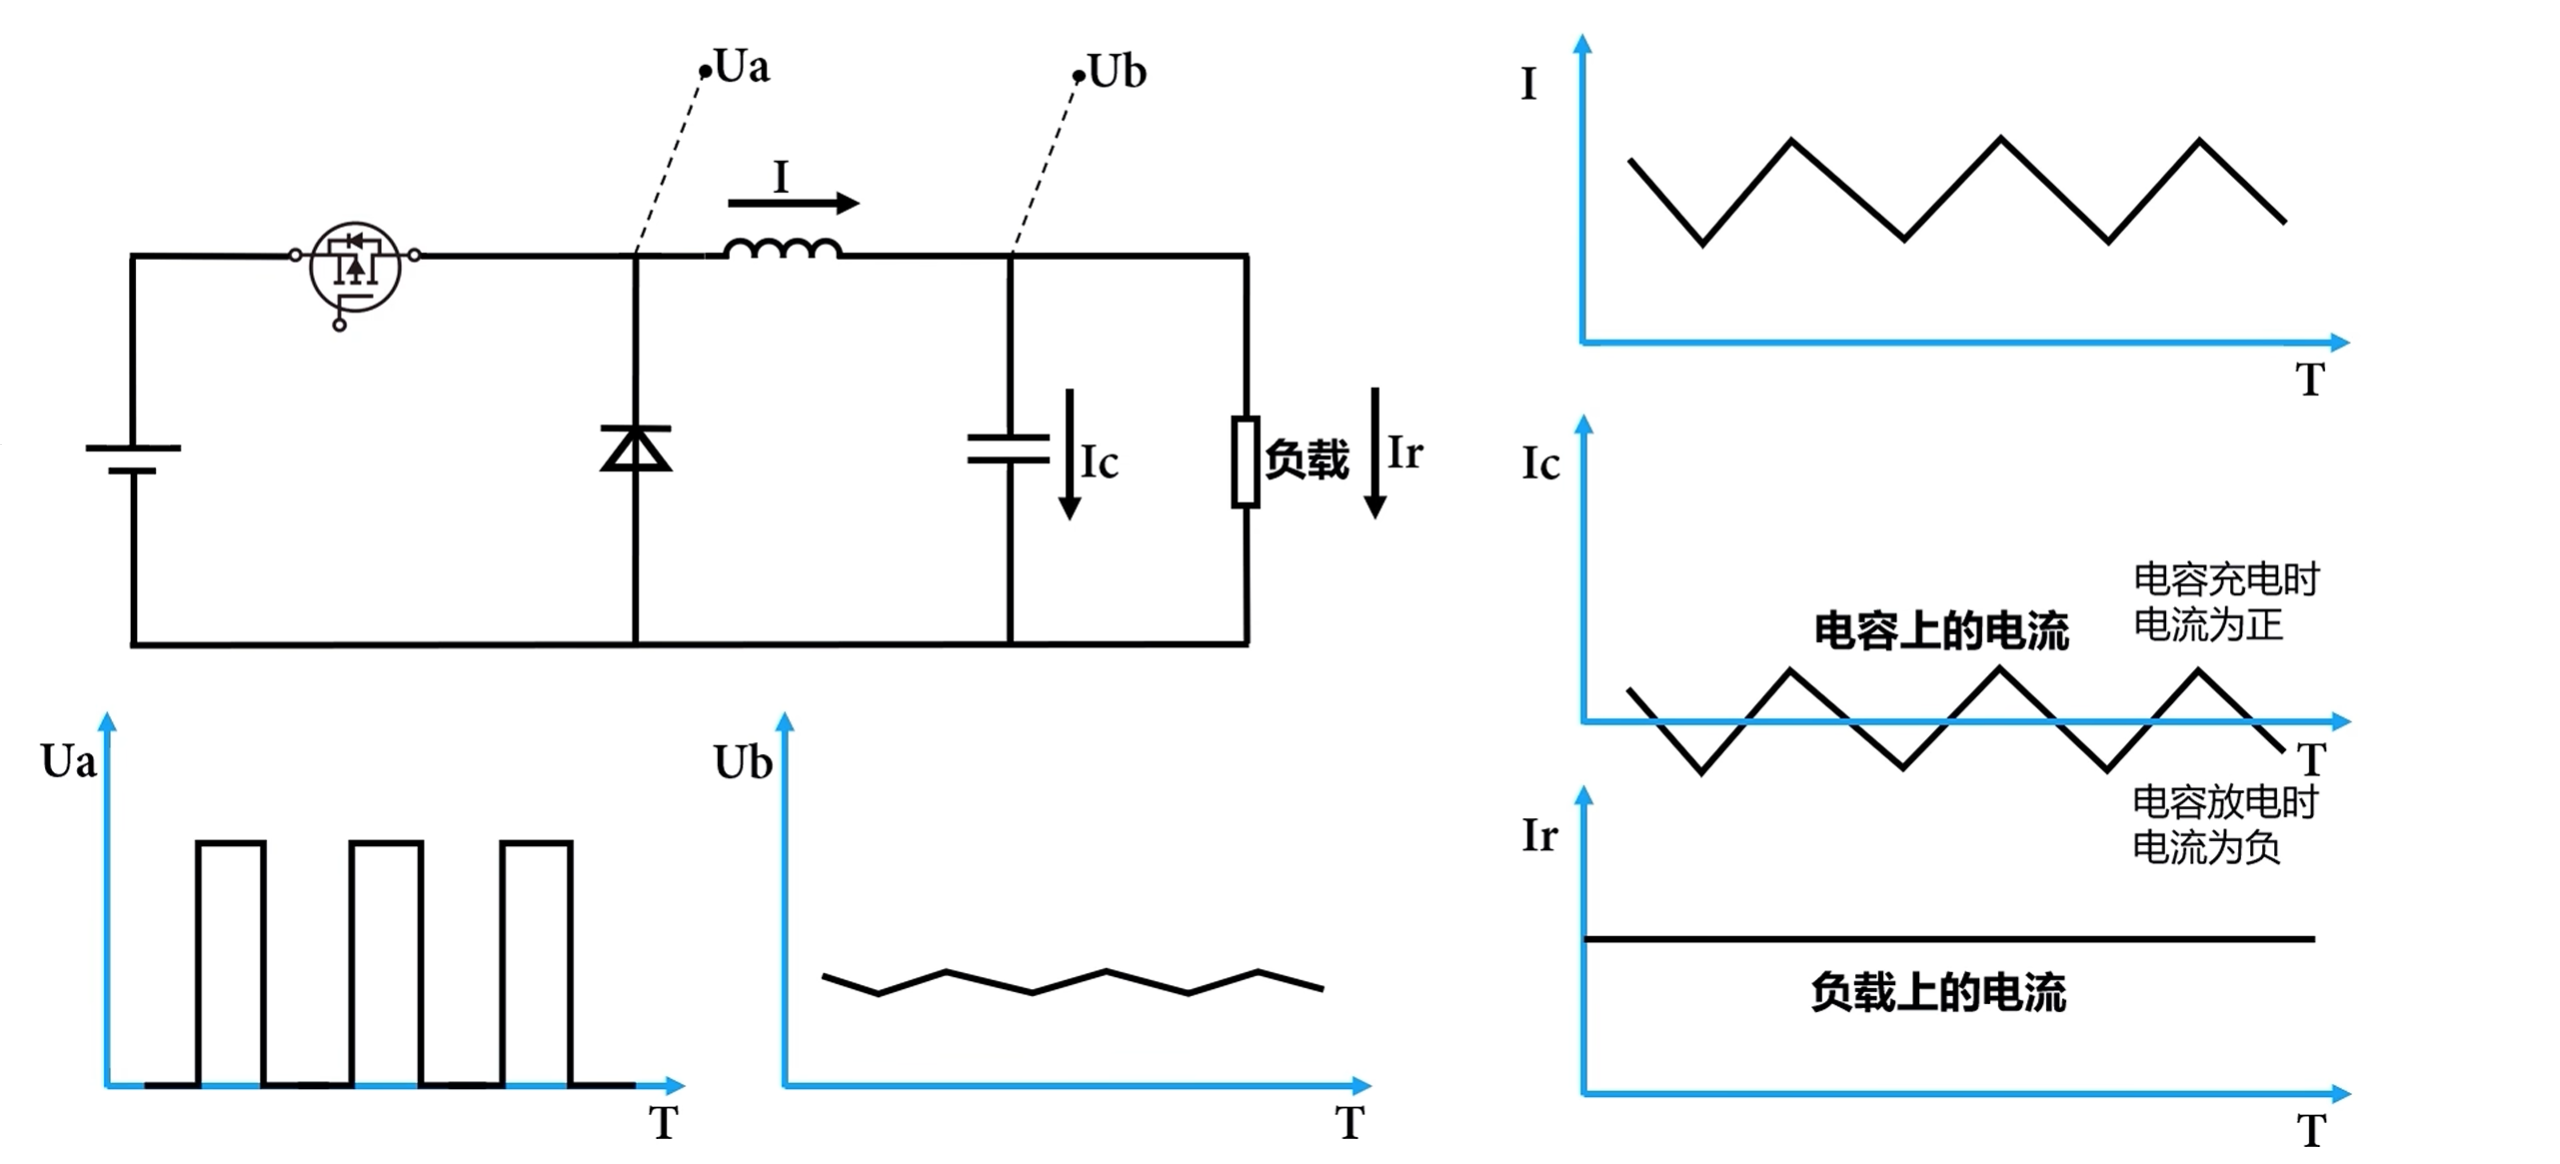
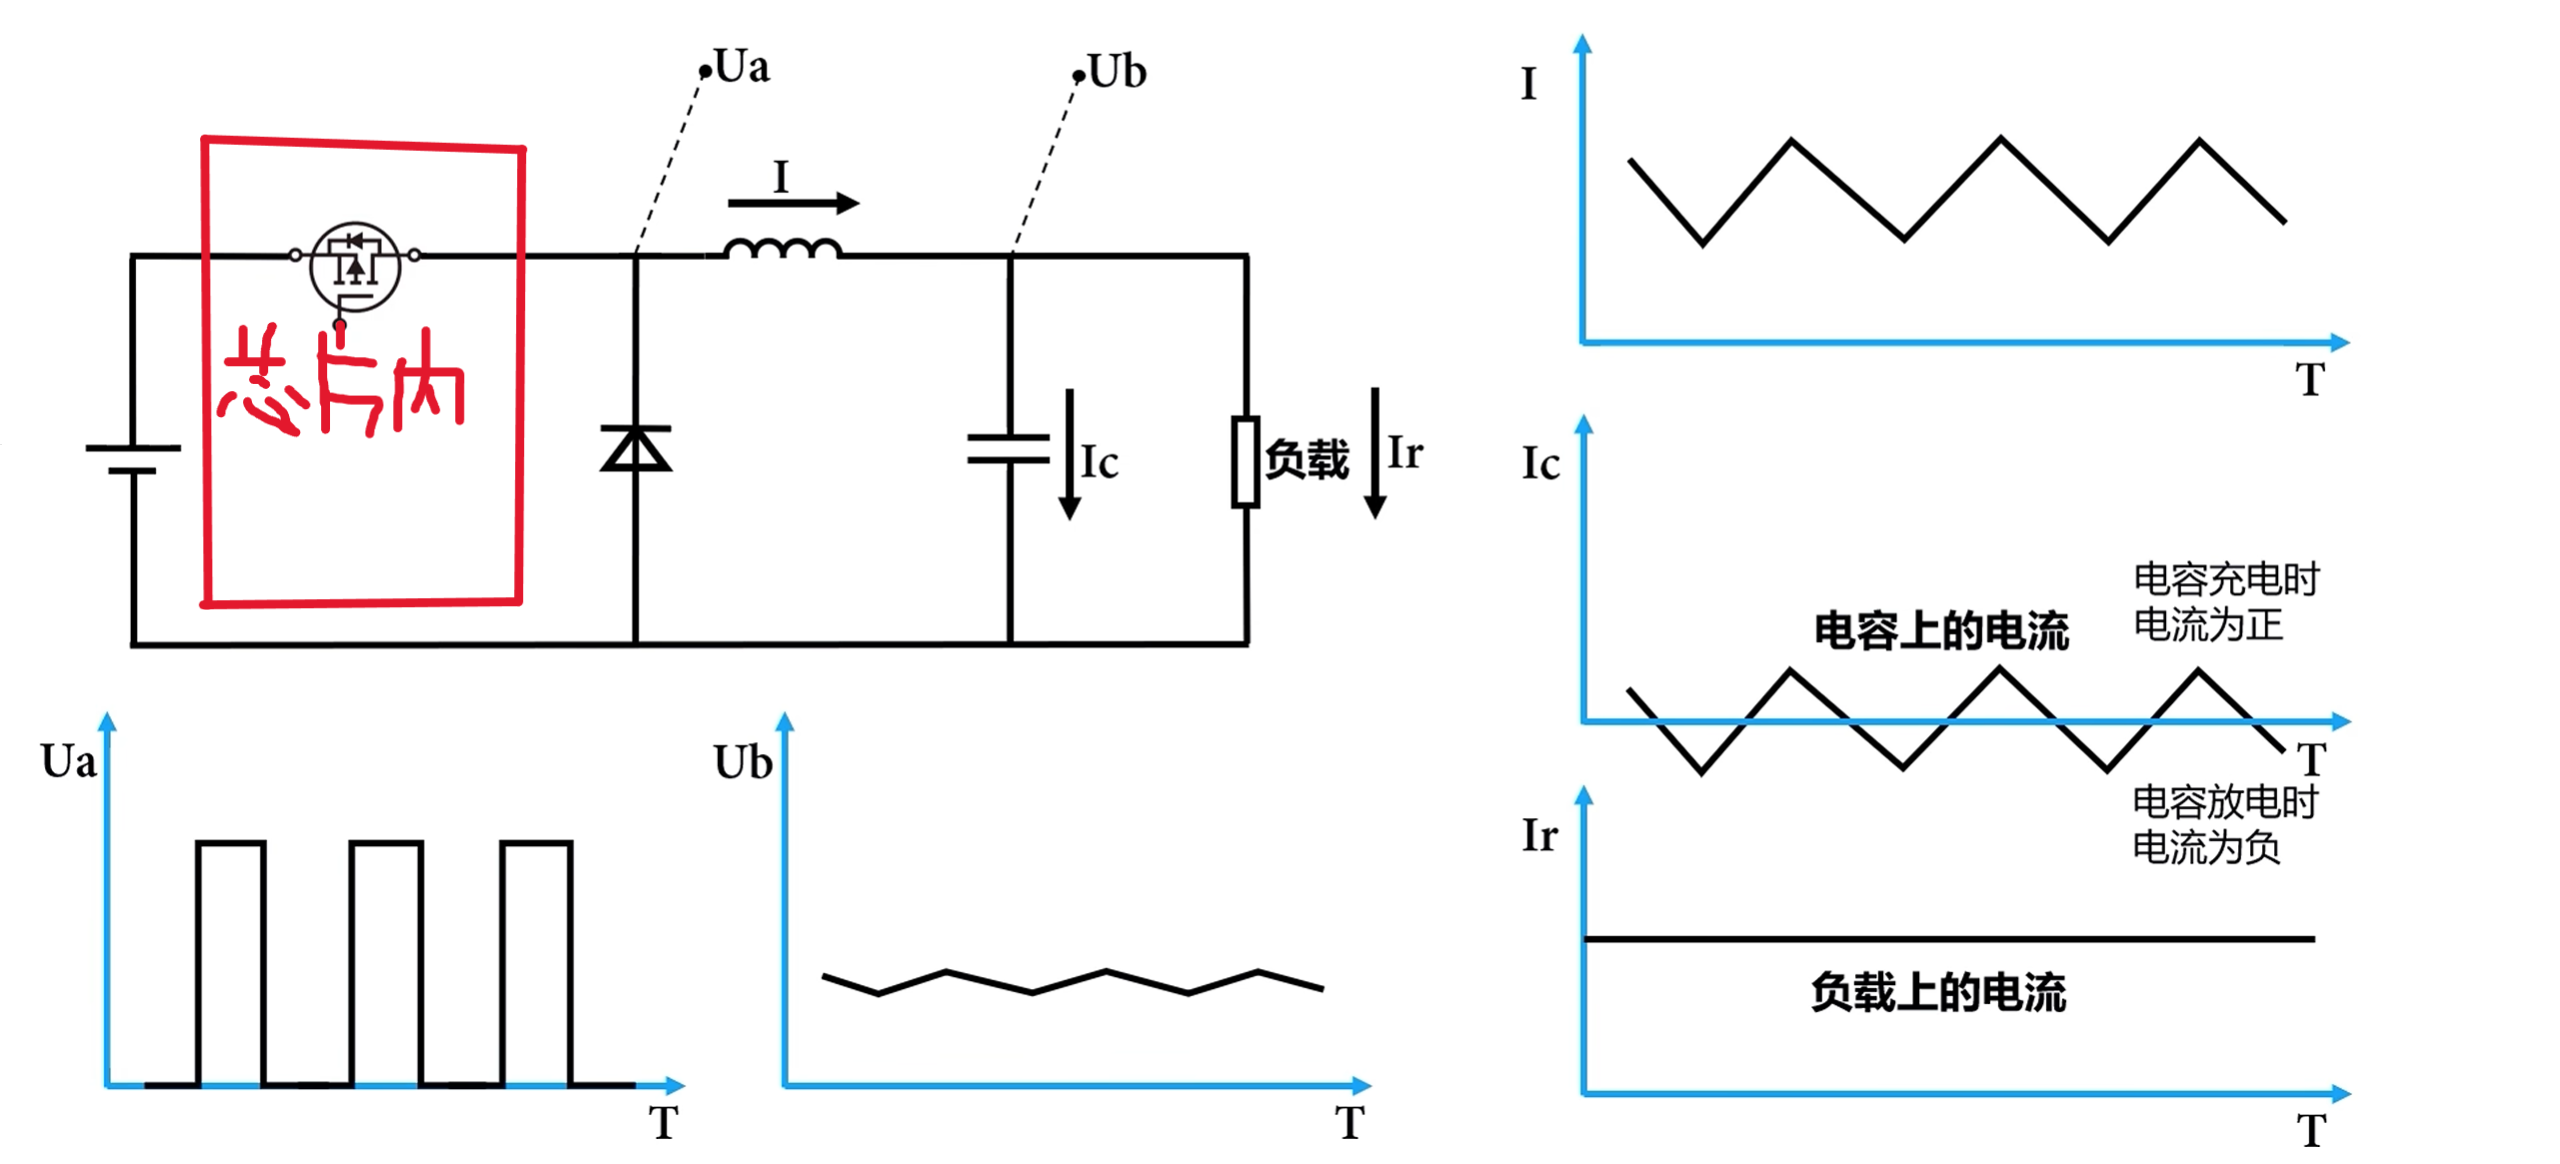
LDO

Changed region(s): [[0.0625, 0.0928, 0.2188, 0.5258]]

diff --git a/电源电路.md b/电源电路.md
@@ -146,3 +146,77 @@
 - 类型：同步整流降压开关转换器
   - 同步：采用续流mos管
   - 转换器：开关mos管与续流mos管均集成在芯片内部，无需额外添加
+  
+  待补充
+
+
+## PCB设计 待补充
+
+# LDO电路（以NPN LDO为例）
+
+## 核心原理
+
+- 三极管工作在线性区，作 *可变电阻* ，在 * *Vin* * 到 **Vout** 间产生指定压降，从而实现降压。
+
+## 电路拓扑结构
+![alt text](images/image-43.png)
+
+- 主功率调整三极管
+  - 特性：在线性区，输出电流 *Ic* 与栅极电流 *Ib* 成正比。通过控制栅极、发射极极间压差，充当可变电阻。
+  - 作用：受 **降压芯片（详见后文）** 控制，调整电阻阻值，在 * *Vin* * 到 **Vout** 间产生指定压降，从而实现降压。
+
+## 降压芯片（以 ams1117 固定版 为例）
+
+- 类型：通用型 NPN 架构低压差线性稳压器
+
+- NPN架构：采用 PNP 驱动 NPN 功率调整三极管，非 MOS 管。
+
+- 参数：
+
+  参数类别 | 核心指标 | 典型值 (1A 满载) | 设计意义
+  ---|---|---|---
+  输出能力 | 最大输出电流 | 1A | 决定负载上限, 超过需散热或降额
+  压差性能 | 低压差 (VDO) | 1.2V | 输入必须比输出至少高 1.3V, 否则无法稳压
+  功耗特性 | 静态电流 (IQ) | 5mA | 不适合电池供电的超低功耗休眠场景
+  精度 | 输出电压精度 | +/-2% (固定版) | 满足 MCU、传感器等常规数字电路需求
+  保护 | 过流 / 过热 | 内置 | 自保护能力强, 适合工业与消费类应用
+
+- 引脚：
+
+  引脚序号 | 通用符号 | 固定版 (如 3.3V) | 硬件连接建议
+  ---|---|---|---
+  1 | GND | 地 (GND) | 固定版: 直连系统地
+  2 | *Vout* | 输出 | 接负载 + 22uF 输出电容
+  3 | *Vin* | 输入 | 接电源 + 10uF 输入电容
+
+- 工作逻辑：
+    ![alt text](images/image-45.png)
+    
+  1. 上电启动阶段：建立供电与基准参考
+     1. 外部输入电压 *Vin* 接入芯片后，为内部所有功能模块供电；
+     2. 内部带隙基准源快速启动，输出高精度、低温漂的 1.25V 基准电压（VREF），该电压为后续稳压提供唯一、稳定的参考标准，是整个稳压系统的核心；
+     3. 芯片输出端的外接电容开始充电，芯片进入待稳压工作状态。
+  2. 正常工作阶段：闭环负反馈稳压（核心逻辑）\
+      此阶段为芯片的常规工作状态，通过采样→对比放大→驱动调整→稳压输出的闭环循环，持续维持输出电压（*Vout*）稳定，固定版与可调版仅采样环节存在差异，其余步骤完全一致。
+     1. 输出电压采样
+        - 采样的核心是获取 *Vout* 的实时电压信号，送至误差放大器做对比，固定版与可调版的采样路径由芯片内部硬件配置决定：
+        - 芯片内部 F1、F2 节点连通，集成了与标称输出电压匹配的内部分压网络，直接采集 *Vout* 的实时电压，分压后送至误差放大器；
+     2. 电压对比与误差放大
+        - 内部误差放大器将采样电压与带隙基准源的 1.25V 基准电压进行实时精准对比，放大两者之间的电压差值，生成小信号控制电压；该差值越小，控制电压的调整幅度越小，反之则越大，实现对输出偏差的精准捕捉。
+     3. 功率管驱动与压降调整
+        - 误差放大器输出的小信号控制电压，无法直接驱动大电流的功率调整管，因此先输入至内部PNP 驱动管进行电流放大，放大后的驱动信号输入至NPN 主功率调整管（串联在 *Vin* 与 *Vout* 之间）；驱动信号会改变 NPN 管的导通程度，进而动态调整其管压降。 
+     4. 稳压输出
+        - NPN 功率管作为串联调整元件，其管压降的动态调整会抵消输入电压波动、负载电流变化带来的输出偏差：
+        - 当 *Vin* 升高 / 负载电流减小，导致 *Vout* 有上升趋势时，调整管压降增大，抵消 *Vout* 的上升；
+        - 当 *Vin* 降低 / 负载电流增大，导致 *Vout* 有下降趋势时，调整管压降减小，弥补 *Vout* 的下降；
+        - 最终使 *Vout* 稳定在目标值。
+  3. 异常工作阶段：保护机制触发（并行监测，异常介入）\
+      芯片内部的过流限制和过热关断（TSD）电路为并行独立模块，不参与正常稳压逻辑，全程实时监测芯片工作状态，当达到触发阈值时，主动介入切断 / 限制输出，防止器件烧毁；故障解除后，自动恢复正常稳压。
+     1. 过流限制逻辑\
+        实时监测 NPN 主功率调整管的输出电流（IOUT）：
+          - 当 IOUT 超过2.1A（典型值）、最大 2.5A 时，触发限流机制，强制限制输出电流不再增大；
+          - 当负载故障解除（如短路恢复），输出电流降至阈值以下，芯片自动退出限流，恢复正常闭环稳压。
+     2. 过热关断逻辑\
+        实时监测芯片结温（TJ）：
+          - 当结温因功耗过高，达到 **150℃** 时，触发热关断，切断 PNP 驱动管的输出信号，使 NPN 调整管截止，芯片停止输出；
+          - 待芯片自然降温，结温降至安全阈值后，热关断电路复位，芯片自动重启，恢复正常稳压工作。
